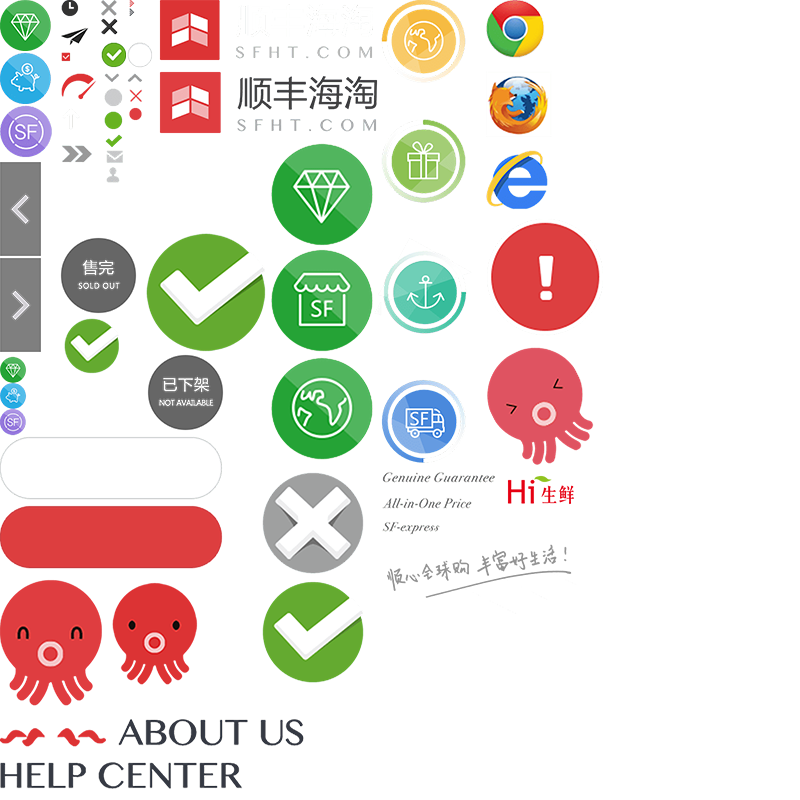
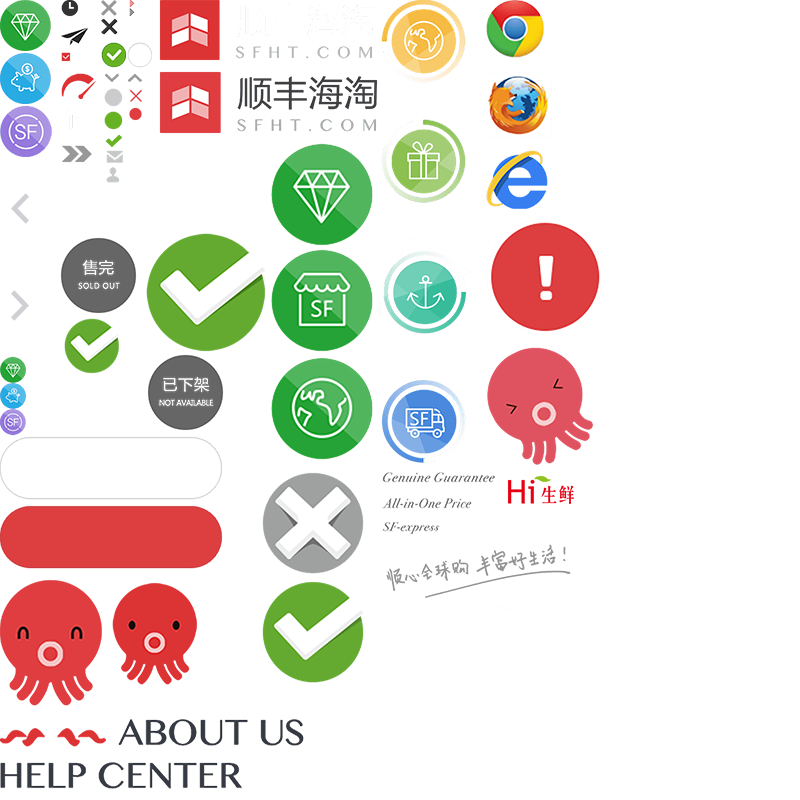
FRONT-849 网站副Logo替换

Changed region(s): [[0.0, 0.1875, 0.0625, 0.4375], [0.5312, 0.6875, 0.7188, 0.7188]]

diff --git a/app/html/index.html b/app/html/index.html
@@ -36,7 +36,7 @@
       <div class="pm clearfix">
         <div class="header-c1 fl">
           <a href="#" class="icon icon10">顺丰海淘</a>
-          <span class="icon icon11"></span>
+          <a target="_blank" href="http://huodong.sfht.com/taiwan/index.html"><img src="../img/twdt.gif" alt="" /></a>
         </div>
         <ul class="header-c2 fr">
           <li>
@@ -489,8 +489,8 @@
     <div class="footer3">Copyright 2014 版权所有sfht.com 沪ICP备 1404464</div>
   </div>
   <!--尾部-->
-  <script src="../../prototype/js/jquery-1.11.1.min.js"></script>
-  <script src="../../prototype/js/index.js"></script>
+  <script src="js/jquery-1.11.1.min.js"></script>
+  <script src="js/index.js"></script>
 </body>
 
 <script type="text/javascript">var cnzz_protocol = (("https:" == document.location.protocol) ? " https://" : " http://");document.write(unescape("%3Cscript src='" + cnzz_protocol + "v1.cnzz.com/z_stat.php%3Fid%3D1253511102%26show%3Dpic1' type='text/javascript'%3E%3C/script%3E"));</script>

diff --git a/app/css/common.css b/app/css/common.css
@@ -463,6 +463,8 @@ button.btn{
 	height: 94px;
 	background: url(../img/icon.png) no-repeat;
 	text-indent: -999em;
+	background-color: #666;
+	background-color: rgba(0,0,0,0.5);
 
 }
 .btn-prev{
